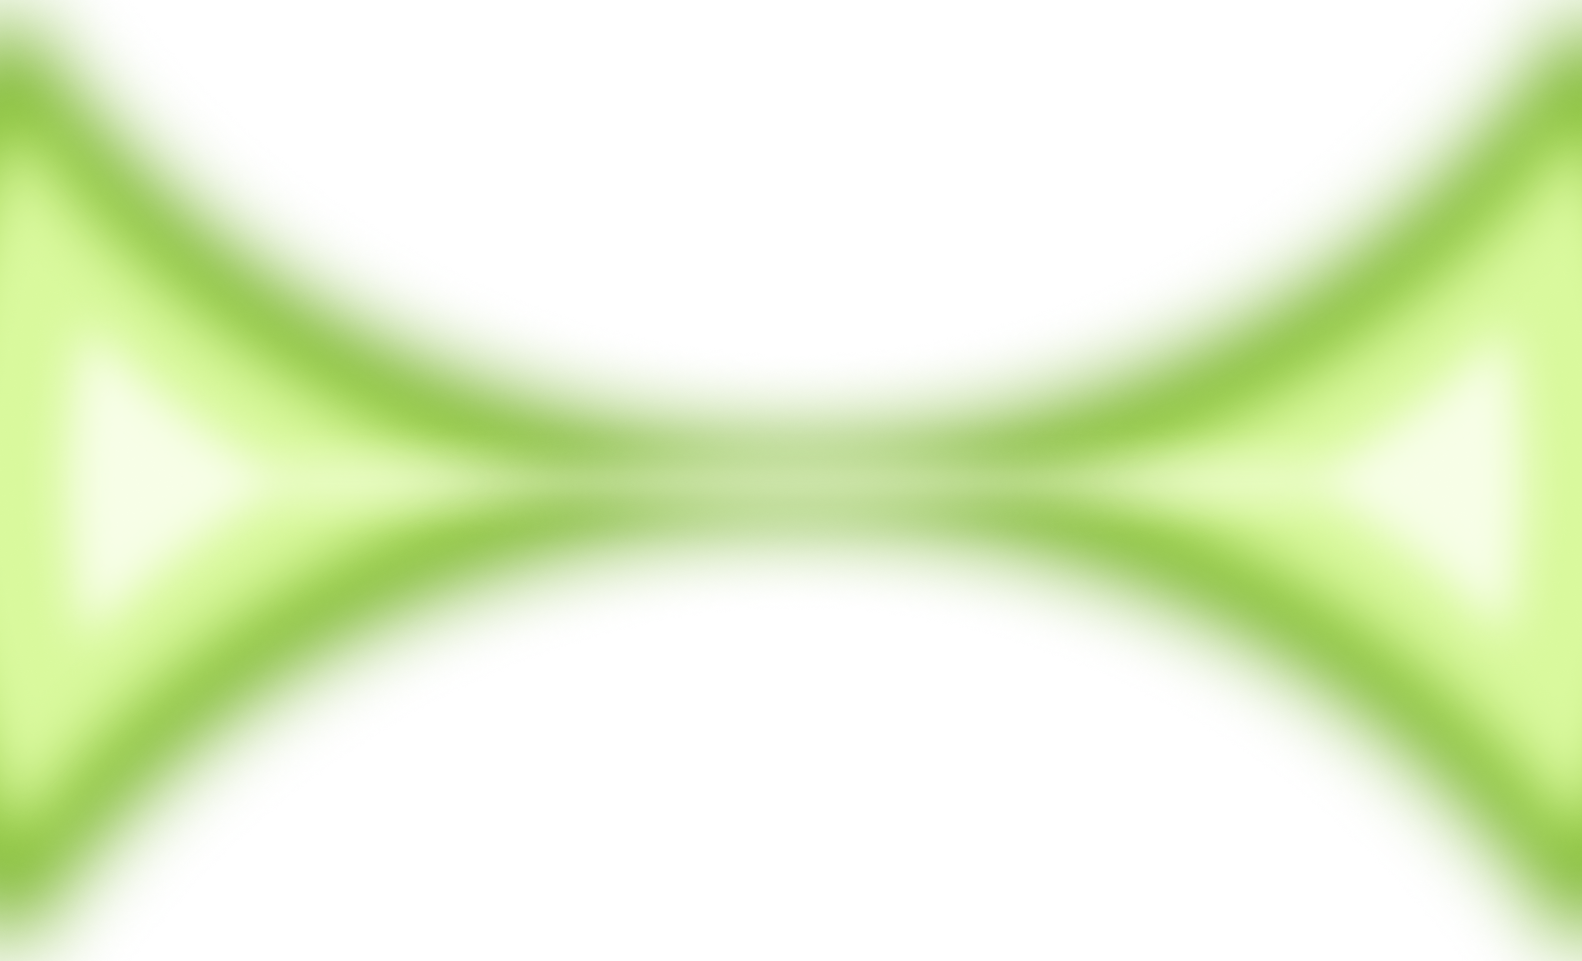
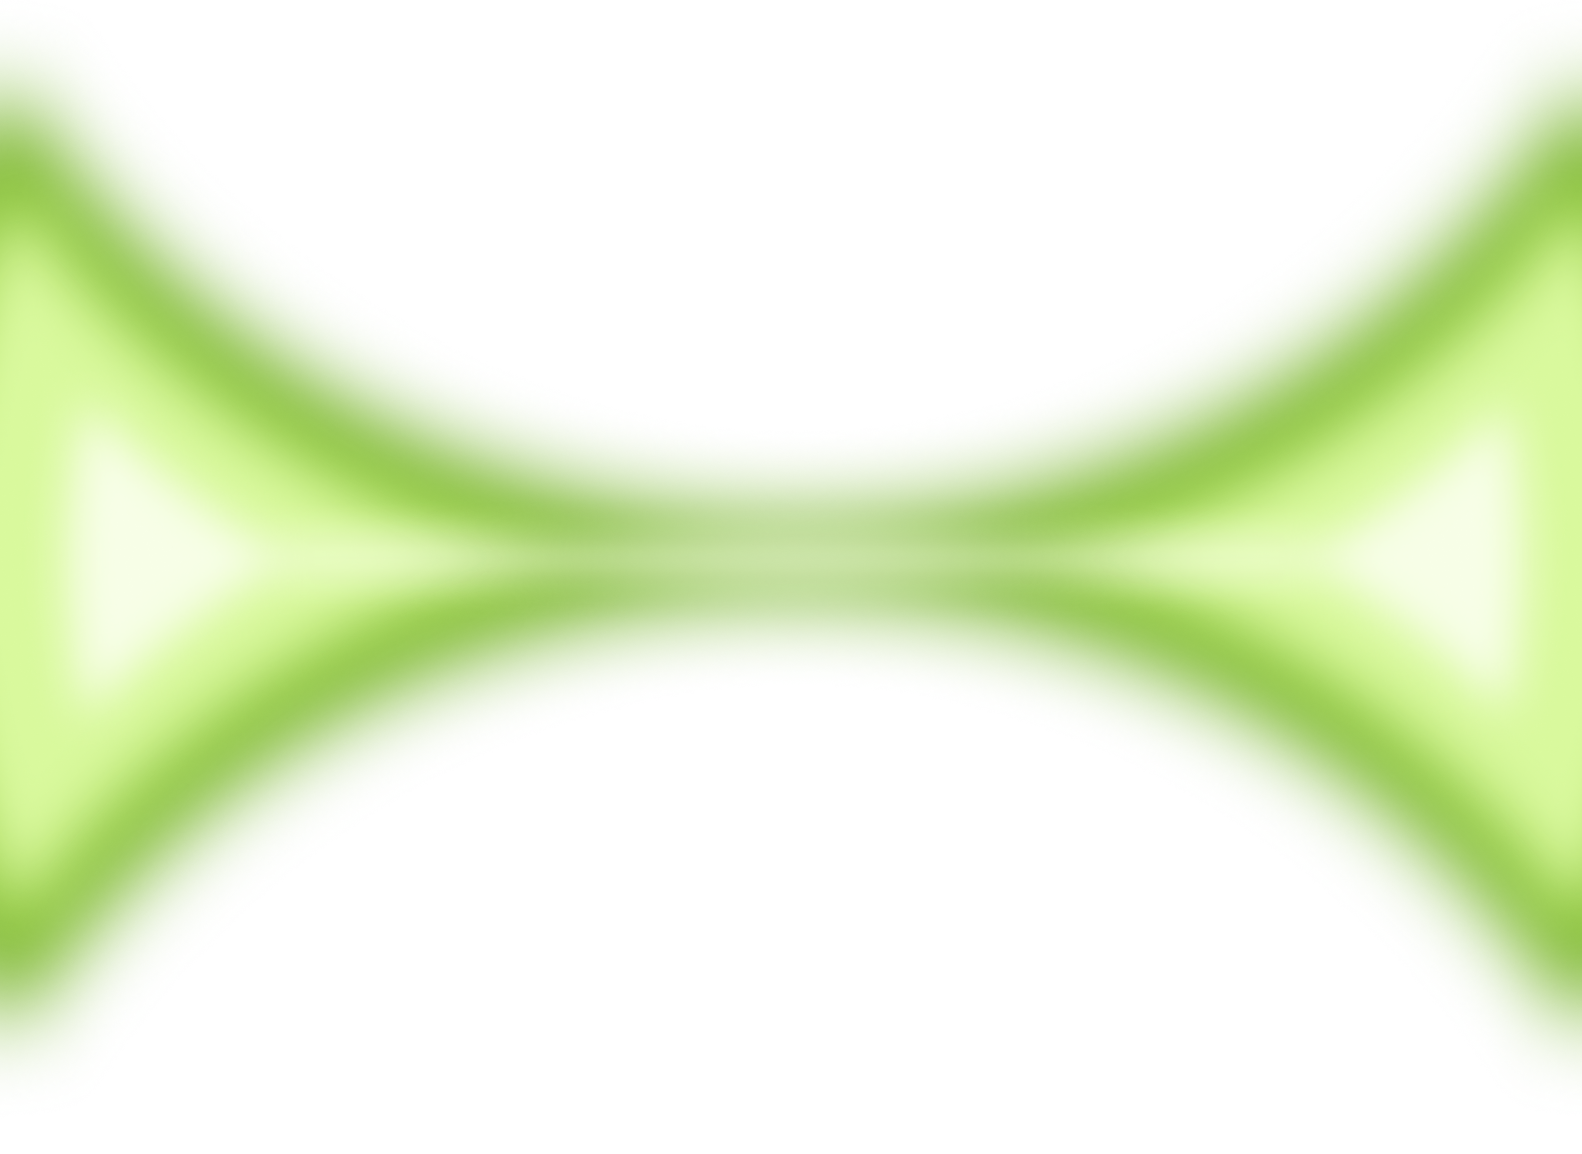
fix(hero): adjusted hero gradient size

Changed region(s): [[0.0, 0.437, 1.0, 1.0], [0.7743, 0.0, 1.0, 0.3434], [0.0, 0.0, 0.2478, 0.3434]]

diff --git a/app/src/components/layout/Hero.tsx b/app/src/components/layout/Hero.tsx
@@ -12,7 +12,7 @@ export default function Hero() {
         src={HeroGradient}
         alt=""
         aria-hidden="true"
-        className="pointer-events-none absolute inset-0 w-full h-full object-cover -z-10 opacity-40"
+        className="pointer-events-none absolute inset-0 w-full h-full object-cover -z-10 opacity-50"
       />
       <div className="max-w-4xl text-center space-y-8">
         {/* Tagline/Feature Highlight */}
